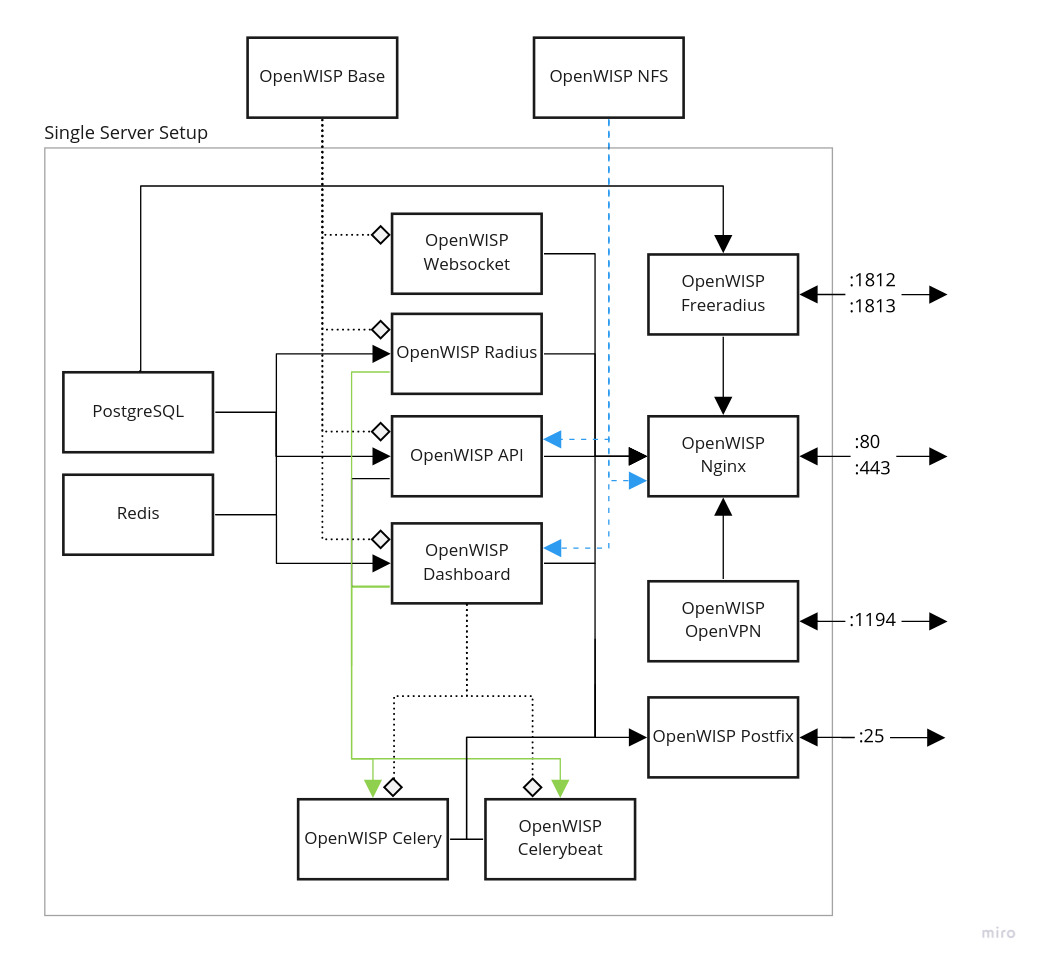
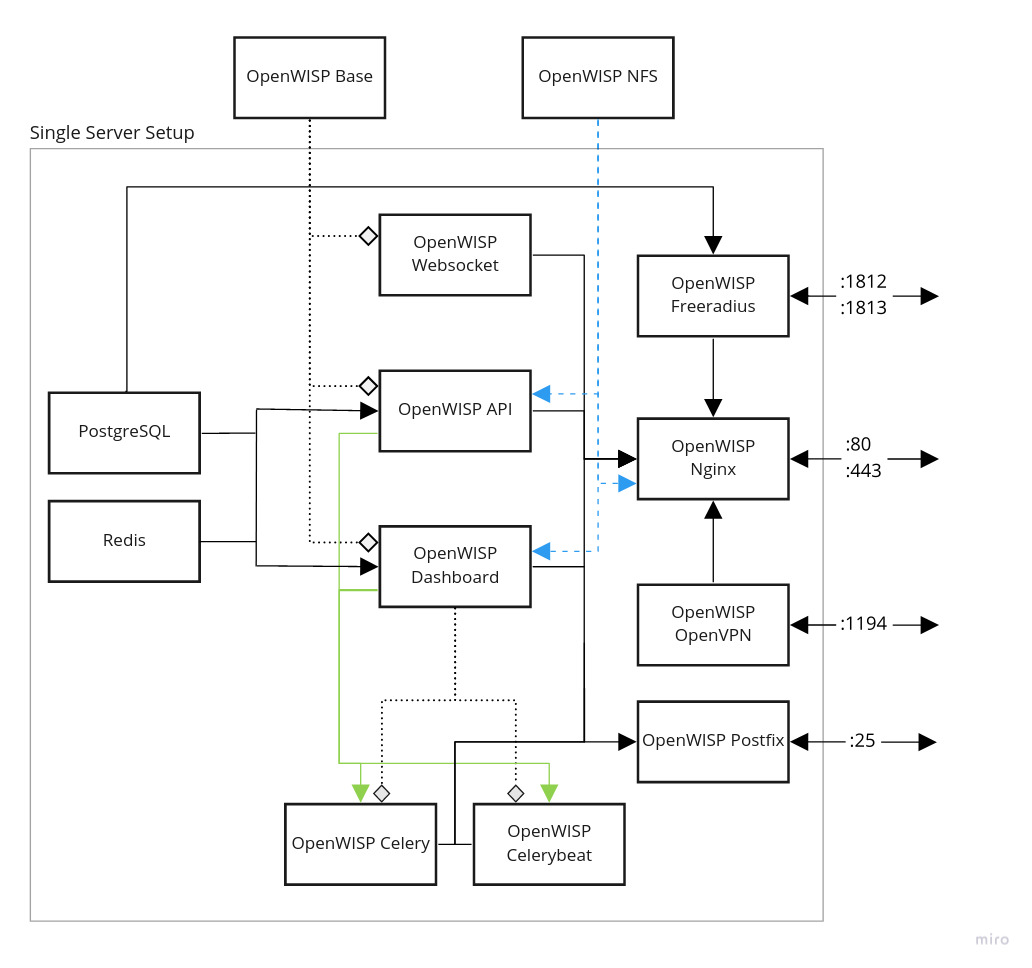
[change] Merged openwisp-radius container in dashboard and API #197
- API container serves openwisp-radius API
- Dashboard container has support for openwisp radius features
- Eliminated openwisp-radius container
- Change port of websocket from 8003 to 8002 for consistency
- Updated README, architecture image and auto-install script

Closes #197

diff --git a/build/openwisp_api/module_settings.py b/build/openwisp_api/module_settings.py
@@ -5,6 +5,7 @@ INSTALLED_APPS = [
     'django.contrib.messages',
     'django.contrib.staticfiles',
     'django.contrib.gis',
+    'django.contrib.humanize',
     # all-auth
     'django.contrib.sites',
     'allauth',
@@ -33,6 +34,8 @@ INSTALLED_APPS = [
     'openwisp_network_topology',
     # openwisp-firmware-upgrader
     'openwisp_firmware_upgrader',
+    # openwisp radius
+    'openwisp_radius',
     # Admin theme required for the templates
     # stored in openwisp_utils/admin_theme
     'openwisp_utils.admin_theme',
@@ -46,8 +49,15 @@ INSTALLED_APPS = [
     # rest framework
     'rest_framework',
     'rest_framework_gis',
-    'rest_framework.authtoken',
     'django_filters',
+    # registration
+    'rest_framework.authtoken',
+    'dj_rest_auth',
+    'dj_rest_auth.registration',
+    # social login
+    'allauth.socialaccount.providers.facebook',
+    'allauth.socialaccount.providers.google',
+    # other packages
     'private_storage',
     'drf_yasg',
     'channels',

diff --git a/tests/runtests.py b/tests/runtests.py
@@ -366,7 +366,7 @@ class TestServices(TestUtilities, unittest.TestCase):
         Ensure freeradius service is working correctly.
         """
         token_page = (
-            f"{self.config['radius_url']}/api/v1/radius/"
+            f"{self.config['api_url']}/api/v1/radius/"
             "organization/default/account/token/"
         )
         request_body = "username=admin&password=admin".encode('utf-8')
@@ -374,7 +374,7 @@ class TestServices(TestUtilities, unittest.TestCase):
         try:
             response = request.urlopen(request_info, context=self.ctx)
         except (urlerror.HTTPError, OSError, ConnectionResetError):
-            self.fail(f"Couldn't get radius-token, check {self.config['radius_url']}")
+            self.fail(f"Couldn't get radius-token, check {self.config['api_url']}")
         self.assertIn('"is_active":true', response.read().decode())
 
         container_id = self.docker_compose_get_container_id('freeradius')

diff --git a/build/openwisp_dashboard/module_settings.py b/build/openwisp_dashboard/module_settings.py
@@ -82,7 +82,6 @@ BROTLI_STATIC_COMPRESSION = False
 GZIP_STATIC_COMPRESSION = True
 
 API_BASEURL = f'{request_scheme()}://{os.environ["API_DOMAIN"]}'
-RADIUS_BASEURL = f'{request_scheme()}://{os.environ["RADIUS_DOMAIN"]}'
 
 OPENWISP_NETWORK_TOPOLOGY_API_URLCONF = 'openwisp_network_topology.urls'
 OPENWISP_MONITORING_API_URLCONF = 'openwisp_monitoring.urls'
@@ -90,4 +89,4 @@ OPENWISP_RADIUS_API_URLCONF = 'openwisp_radius.urls'
 OPENWISP_NETWORK_TOPOLOGY_API_BASEURL = API_BASEURL
 OPENWISP_MONITORING_API_BASEURL = API_BASEURL
 OPENWISP_FIRMWARE_API_BASEURL = API_BASEURL
-OPENWISP_RADIUS_API_BASEURL = RADIUS_BASEURL
+OPENWISP_RADIUS_API_BASEURL = API_BASEURL

diff --git a/build/common/openwisp/settings.py b/build/common/openwisp/settings.py
@@ -39,7 +39,6 @@ ALLOWED_HOSTS = [
     'localhost',
     os.environ['DASHBOARD_INTERNAL'],
     os.environ['API_INTERNAL'],
-    os.environ['RADIUS_INTERNAL'],
 ] + os.environ['DJANGO_ALLOWED_HOSTS'].split(',')
 
 OPENWISP_RADIUS_FREERADIUS_ALLOWED_HOSTS = os.environ[
@@ -57,7 +56,6 @@ HTTP_SCHEME = request_scheme()
 CORS_ALLOWED_ORIGINS = [
     f'{HTTP_SCHEME}://{os.environ["DASHBOARD_DOMAIN"]}',
     f'{HTTP_SCHEME}://{os.environ["API_DOMAIN"]}',
-    f'{HTTP_SCHEME}://{os.environ["RADIUS_DOMAIN"]}',
 ] + os.environ['DJANGO_CORS_HOSTS'].split(',')
 CORS_ALLOW_CREDENTIALS = True
 

diff --git a/build/openwisp_api/urls.py b/build/openwisp_api/urls.py
@@ -32,3 +32,10 @@ if env_bool(os.environ['USE_OPENWISP_MONITORING']):
             '', include('openwisp_monitoring.device.api.urls', namespace='monitoring'),
         )
     ]
+
+if env_bool(os.environ['USE_OPENWISP_RADIUS']):
+    urlpatterns += [
+        path(
+            '', include(('openwisp_radius.urls', 'radius'))
+        )
+    ]

diff --git a/README.md b/README.md
@@ -48,8 +48,6 @@ The sample files for deployment on kubernetes are available in the `deploy/examp
 - **openwisp-dashboard**: Your OpenWISP device administration dashboard.
 - **openwisp-api**: HTTP API from various openwisp modules which can be scaled simply by having multiple
   API containers as per requirement.
-- **openwisp-radius**: HTTP API for interacting with openwisp-radius. Separated from the rest of APIs as it
-  can have different scalability requirements in large deployments.
 - **openwisp-websocket**: Dedicated container for handling websocket requests, eg. for updating location of
   mobile network devices.
 - **openwisp-celery**: Runs all the background tasks for OpenWISP, eg. updating configurations of your device.
@@ -61,8 +59,7 @@ The sample files for deployment on kubernetes are available in the `deploy/examp
 - **openwisp-postfix**: Mail server for sending mails to MTA.
 - **openwisp-nfs**: NFS server that allows shared storage between different machines. It does not run
   in single server machines but provided for K8s setup.
-- **openwisp-base**: It is the base image which does not run on your server, but openwisp-radius,
-  openwisp-api & openwisp-dashboard use it as a base.
+- **openwisp-base**: It is the base image which does not run on your server, but openwisp-api & openwisp-dashboard use it as a base.
 - **Redis**: data caching service (required for actions like login).
 - **PostgreSQL**: SQL database container for OpenWISP.
 
@@ -76,7 +73,7 @@ The `auto-install.sh` script can be used to quickly install a simple instance of
 
 If you have created a [`.env` file](docs/ENV.md) to configure your instance, then you can use it with the script otherwise.
 
-**It asks 6 questions for application configuration, 4 of them are domain names.** The dashboard, api, radius & openvpn can be setup on different domain, **please ensure the domains you enter point to your server**. The remaining **2 questions are email id** for site manager email (used by django to send application emails) and letsencrypt (used by [certbot](https://certbot.eff.org/) to issue https certs on this address.)
+**It asks 5 questions for application configuration, 3 of them are domain names.** The dashboard, api & openvpn can be setup on different domain, **please ensure the domains you enter point to your server**. The remaining **2 questions are email id** for site manager email (used by django to send application emails) and letsencrypt (used by [certbot](https://certbot.eff.org/) to issue https certs on this address.)
 
 To get started, run the following command:
 
@@ -161,7 +158,7 @@ If you want to disable a service, you can simply remove the container for that s
 - `openwisp-monitoring` : Set the `USE_OPENWISP_MONITORING` variable to `False`.
 - `openwisp-radius` : Set the `USE_OPENWISP_RADIUS` variable to `False`.
 - `openwisp-postgres`: If you are using a seperate database instance,
-  - Ensure your database instance is reachable by the following OpenWISP containers: `openvpn`, `freeradius`, `celerybeat`, `celery`, `websocket`, `radius`, `api`, `dashboard`.
+  - Ensure your database instance is reachable by the following OpenWISP containers: `openvpn`, `freeradius`, `celerybeat`, `celery`, `websocket`, `api`, `dashboard`.
   - Ensure your database server supports GeoDjango. (Install PostGIS for PostgreSQL)
   - Change the [database configuration variables](docs/ENV.md) to point to your instances, if you are using SSL, remember to set `DB_SSLMODE`, `DB_SSLKEY`, `DB_SSLCERT`, `DB_SSLROOTCERT`.
   - If you are using SSL, remember to mount volume containing the certificates and key in all the containers which contact the database server and make sure that the private key permission is `600` and owned by `root:root`.
@@ -180,9 +177,9 @@ If you want to disable a service, you can simply remove the container for that s
 **Notes:**
 
 - Default username & password are `admin`.
-- Default domains are: `dashboard.openwisp.org`, `api.openwisp.org` and `radius.openwisp.org`.
+- Default domains are: `dashboard.openwisp.org` and `api.openwisp.org`.
 - To reach the dashboard you may need to add the openwisp domains set in your `.env` to your `hosts` file,
-  example: `bash -c 'echo "127.0.0.1 dashboard.openwisp.org api.openwisp.org radius.openwisp.org" >> /etc/hosts'`
+  example: `bash -c 'echo "127.0.0.1 dashboard.openwisp.org api.openwisp.org" >> /etc/hosts'`
 - Now you'll need to do steps (2) everytime you make a changes and want to build the images again.
 - If you want to perform actions like cleaning everything produced by `docker-openwisp`,
   please use the [makefile options](#makefile-options).

diff --git a/docs/ENV.md b/docs/ENV.md
@@ -61,12 +61,6 @@ Additionally, you can search for the following:
 - **Valid Values:** Domain
 - **Default:** api.example.com
 
-### `RADIUS_DOMAIN`
-
-- **Explaination:** Domain on which you want to access OpenWISP radius API.
-- **Valid Values:** Domain
-- **Default:** radius.example.com
-
 ### `VPN_DOMAIN`
 
 - **Explaination:** Valid domain / IP address to reach the OpenVPN server.
@@ -639,12 +633,6 @@ Any OpenWISP Configuration of type `string`. `int`, `bool` or `json` is supporte
 - **Valid Values:** Domain | IP address
 - **Default:** api
 
-### `RADIUS_APP_SERVICE`
-
-- **Explaination:** Host to establish OpenWISP radius connection.
-- **Valid Values:** Domain | IP address
-- **Default:** radius
-
 ## Developer
 
 ### `DEBUG_MODE`
@@ -665,12 +653,6 @@ Any OpenWISP Configuration of type `string`. `int`, `bool` or `json` is supporte
 - **Valid Values:** INTEGER
 - **Default:** 8001
 
-### `RADIUS_APP_PORT`
-
-- **Explaination:** Change the port on which nginx tries to get the OpenWISP radius container. DON'T Change unless you know what you are doing.
-- **Valid Values:** INTEGER
-- **Default:** 8002
-
 ### `DASHBOARD_INTERNAL`
 
 - **Explaination:** Internal dashboard domain to reach dashboard from other containers.
@@ -682,12 +664,6 @@ Any OpenWISP Configuration of type `string`. `int`, `bool` or `json` is supporte
 - **Explaination:** Internal api domain to reach api from other containers.
 - **Valid Values:** STRING
 - **Default:** api.internal
-
-### `RADIUS_INTERNAL`
-
-- **Explaination:** Internal radius domain to reach radius from other containers.
-- **Valid Values:** STRING
-- **Default:** radius.internal
 
 ### `POSTFIX_DEBUG_MYNETWORKS`
 

diff --git a/docs/kubernetes/GOOGLE_CLOUD.md b/docs/kubernetes/GOOGLE_CLOUD.md
@@ -39,7 +39,6 @@ kubectl patch ingress/openwisp-http-ingress \
                 "hosts": [
                     "dasboard.openwisp.org",
                     "api.openwisp.org",
-                    "radius.openwisp.org"
                 ],
                 "secretName": "openwisp-tls-secret"
                 }

diff --git a/docs/kubernetes/KUBERNETES.md b/docs/kubernetes/KUBERNETES.md
@@ -8,7 +8,6 @@
 ```
   dashboard.<your.domain>    --Public-IP--
   api.<your.domain>          --Public-IP--
-  radius.<your.domain>       --Public-IP--
 ```
 
 2. (Optional) Postfix mail relay server (Example: Mailjet, Pepipost, Sendgrid, Mandrill)
